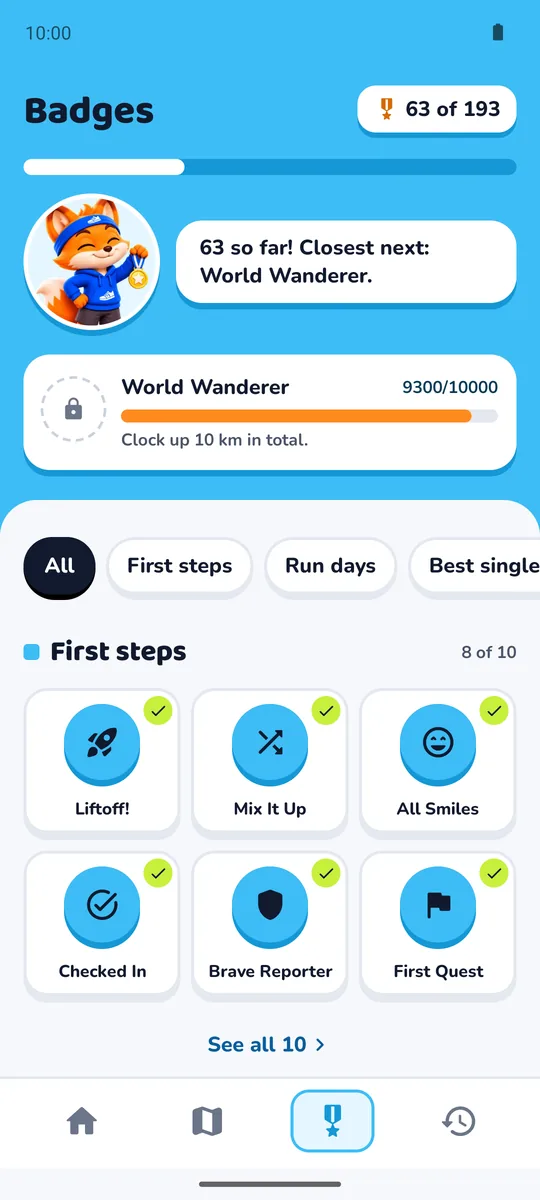
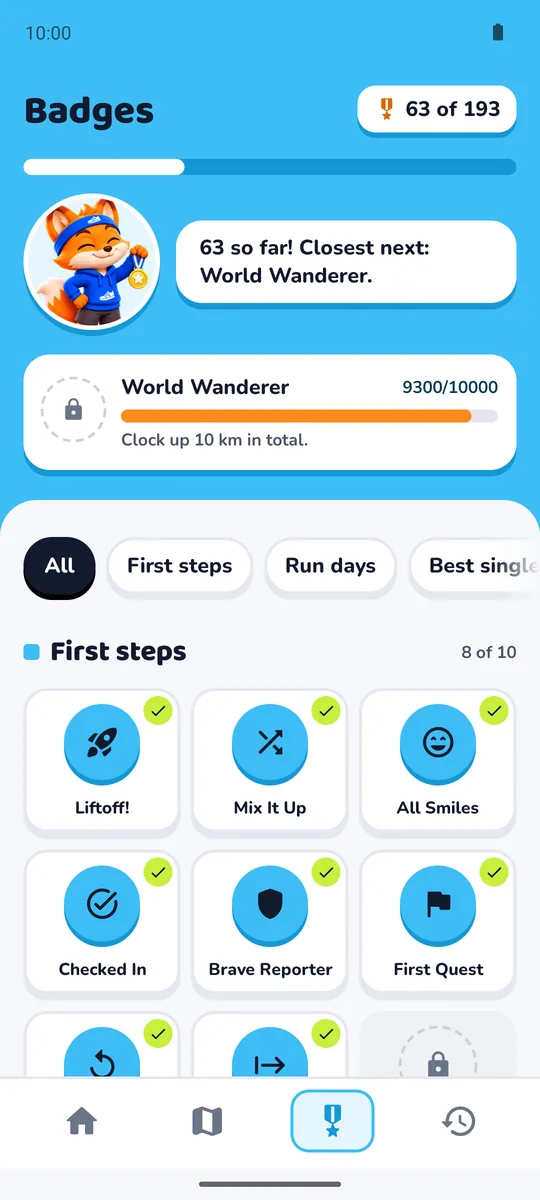
1.5: round medals, no jump on Easier and Harder, clearer Show more
The darker edge under chunky surfaces is now the face's own shape dropped
by the depth, so medals, Ruu's frame and chapter circles are round instead
of slightly oval. The mission card no longer jumps while the distance rolls.
Badge categories say how many more they hold. The filter chips fade at the
edge instead of being cut. A test checks all 193 badges are on the tab.

diff --git a/app/src/main/java/app/ruuun/ui/screens/BadgesScreen.kt b/app/src/main/java/app/ruuun/ui/screens/BadgesScreen.kt
@@ -37,6 +37,14 @@ import androidx.compose.runtime.setValue
 import androidx.compose.ui.Alignment
 import androidx.compose.ui.Modifier
 import androidx.compose.ui.draw.clip
+import androidx.compose.ui.draw.drawWithContent
+import androidx.compose.ui.geometry.Offset
+import androidx.compose.ui.geometry.Size
+import androidx.compose.ui.graphics.BlendMode
+import androidx.compose.ui.graphics.Brush
+import androidx.compose.ui.graphics.Color
+import androidx.compose.ui.graphics.CompositingStrategy
+import androidx.compose.ui.graphics.graphicsLayer
 import androidx.compose.ui.semantics.Role
 import androidx.compose.ui.semantics.heading
 import androidx.compose.ui.semantics.semantics
@@ -148,9 +156,14 @@ fun BadgesScreen(state: AppState) {
         }
 
         item {
+            val chipScroll = rememberScrollState()
             Row(
                 Modifier
-                    .horizontalScroll(rememberScrollState())
+                    .fadedEdges(
+                        start = chipScroll.value > 0,
+                        end = chipScroll.value < chipScroll.maxValue,
+                    )
+                    .horizontalScroll(chipScroll)
                     .padding(horizontal = Gutter),
                 horizontalArrangement = Arrangement.spacedBy(8.dp),
             ) {
@@ -223,7 +236,7 @@ fun BadgesScreen(state: AppState) {
             if (badges.size > PREVIEW && filter != category) {
                 item(key = "more-$category") {
                     SeeAllLink(
-                        text = if (showAll) "Show fewer" else "See all ${badges.size}",
+                        text = if (showAll) "Show fewer" else "Show ${badges.size - PREVIEW} more",
                         onClick = {
                             opened = if (showAll) opened - category.name else opened + category.name
                         },
@@ -240,6 +253,36 @@ fun BadgesScreen(state: AppState) {
         BadgeDetailSheet(badge = sheetBadge, stats = stats, onDismiss = { selected = null })
     }
 }
+
+/**
+ * Fades a sideways-scrolling row out at whichever edge has more to see, so a chip cut by
+ * the screen edge reads as "scroll for more" rather than a broken chip.
+ */
+private fun Modifier.fadedEdges(start: Boolean, end: Boolean): Modifier =
+    graphicsLayer { compositingStrategy = CompositingStrategy.Offscreen }
+        .drawWithContent {
+            drawContent()
+            val fade = 36.dp.toPx()
+            if (start) {
+                drawRect(
+                    brush = Brush.horizontalGradient(listOf(Color.Transparent, Color.Black), startX = 0f, endX = fade),
+                    size = Size(fade, size.height),
+                    blendMode = BlendMode.DstIn,
+                )
+            }
+            if (end) {
+                drawRect(
+                    brush = Brush.horizontalGradient(
+                        listOf(Color.Black, Color.Transparent),
+                        startX = size.width - fade,
+                        endX = size.width,
+                    ),
+                    topLeft = Offset(size.width - fade, 0f),
+                    size = Size(fade, size.height),
+                    blendMode = BlendMode.DstIn,
+                )
+            }
+        }
 
 /** The badge closest to being earned, on the header, with its progress. */
 @Composable

diff --git a/app/src/main/java/app/ruuun/ui/screens/HomeScreen.kt b/app/src/main/java/app/ruuun/ui/screens/HomeScreen.kt
@@ -3,6 +3,8 @@ package app.ruuun.ui.screens
 import androidx.compose.animation.AnimatedContent
 import androidx.compose.animation.EnterTransition
 import androidx.compose.animation.ExitTransition
+import androidx.compose.animation.SizeTransform
+import androidx.compose.animation.core.tween
 import androidx.compose.animation.core.Animatable
 import androidx.compose.animation.fadeIn
 import androidx.compose.animation.fadeOut
@@ -340,7 +342,9 @@ private fun MissionSpeech(targetM: Int, welcomeBack: Boolean) {
             Text("Welcome back!", style = RuuunText.SpeechWords, color = Navy)
             Spacer(Modifier.height(4.dp))
         }
-        Row {
+        // Bottom-aligned with a fixed nudge, not by baseline: while the number rolls there
+        // are two of them, and a baseline would make the card jump.
+        Row(verticalAlignment = Alignment.Bottom) {
             Text(
                 "Let's do ",
                 style = RuuunText.SpeechWords,
@@ -349,7 +353,7 @@ private fun MissionSpeech(targetM: Int, welcomeBack: Boolean) {
                 // The distance keeps its width; the words give way first.
                 modifier = Modifier
                     .weight(1f, fill = false)
-                    .alignByBaseline()
+                    .padding(bottom = 3.dp)
                     .cropFontSpace(),
             )
             AnimatedContent(
@@ -361,10 +365,9 @@ private fun MissionSpeech(targetM: Int, welcomeBack: Boolean) {
                             (slideInVertically { it } + fadeIn()) togetherWith (slideOutVertically { -it } + fadeOut())
                         else ->
                             (slideInVertically { -it } + fadeIn()) togetherWith (slideOutVertically { it } + fadeOut())
-                    }
+                    }.using(SizeTransform(clip = true) { _, _ -> tween(220) })
                 },
                 label = "mission",
-                modifier = Modifier.alignByBaseline(),
             ) { metres ->
                 Text(
                     Formatters.distance(metres),

diff --git a/app/src/main/java/app/ruuun/ui/components/Cards.kt b/app/src/main/java/app/ruuun/ui/components/Cards.kt
@@ -343,9 +343,9 @@ fun Medal(badge: BadgeDef, earned: Boolean, modifier: Modifier = Modifier, size:
             shade = badge.category.earnedShade(),
             border = null,
             shape = androidx.compose.foundation.shape.CircleShape,
-            depth = 5.dp,
+            depth = 4.dp,
             // The edge adds to the height, so the face itself stays a circle.
-            modifier = modifier.size(width = size, height = size + 5.dp),
+            modifier = modifier.size(width = size, height = size + 4.dp),
             contentAlignment = Alignment.Center,
         ) {
             Icon(
@@ -358,8 +358,8 @@ fun Medal(badge: BadgeDef, earned: Boolean, modifier: Modifier = Modifier, size:
     } else {
         Box(
             modifier
-                .size(width = size, height = size + 5.dp)
-                .padding(bottom = 5.dp)
+                .size(width = size, height = size + 4.dp)
+                .padding(bottom = 4.dp)
                 .drawBehind {
                     drawCircle(
                         color = app.ruuun.ui.theme.InputBorder,

diff --git a/app/src/main/java/app/ruuun/ui/components/Chunky.kt b/app/src/main/java/app/ruuun/ui/components/Chunky.kt
@@ -78,11 +78,12 @@ fun Chunky(
     }
     // Min constraints pass through, so a fixed or full-width size reaches the face.
     Box(modifier.then(clickModifier), propagateMinConstraints = true) {
-        // The edge: the whole footprint in the shade colour, under the face.
+        // The edge: the face's own shape in the shade colour, dropped by the full depth, so
+        // only a crescent shows below. A circle stays a circle with a circle under it.
         Box(
             Modifier
                 .matchParentSize()
-                .padding(top = (depth - shown).coerceAtLeast(0.dp))
+                .padding(top = depth)
                 .clip(shape)
                 .background(shade),
         )

diff --git a/app/src/test/java/app/ruuun/BadgeTabCountTest.kt b/app/src/test/java/app/ruuun/BadgeTabCountTest.kt
@@ -1,0 +1,17 @@
+package app.ruuun
+
+import app.ruuun.content.Achievements
+import app.ruuun.content.BadgeCategory
+import org.junit.Assert.assertEquals
+import org.junit.Test
+
+/** The Badges tab lists every badge: each category on screen adds up to all 193. */
+class BadgeTabCountTest {
+    @Test
+    fun `every badge is in a category shown on the Badges tab`() {
+        val shown = BadgeCategory.entries.filter { Achievements.BY_CATEGORY[it]?.isNotEmpty() == true }
+        val perCategory = shown.associateWith { Achievements.BY_CATEGORY[it].orEmpty().size }
+        assertEquals(Achievements.ALL.size, perCategory.values.sum())
+        assertEquals(193, Achievements.ALL.size)
+    }
+}

diff --git a/docs/UI_DESIGN_SPEC.md b/docs/UI_DESIGN_SPEC.md
@@ -20,7 +20,7 @@
 
 **Contrast rules (a change from the design handoff, on purpose).** The handoff put white text on Sky and on Orange. Those measure 2.1:1 and 2.4:1, below the 3:1 minimum even for large text, so the app uses Navy (or SkyDeep on Sky) instead. Orange text on white uses OrangeShade, large sizes only. Medal icons are Navy, except Secret (lime on black). Inactive nav icons are `#7D8799` (3.6:1).
 
-**`Chunky`** (`ui/components/Chunky.kt`) is the base of every card, chip, tile and button: a solid face over a darker shade that shows as a thick bottom edge (no blur shadows anywhere). Pressing moves the face down to a 2 dp edge in 80 ms; the outer size never changes. White faces get a 2 dp `Border` outline and a `Border` edge; coloured faces get their shade (`shadeOf`). Depths: buttons 6, cards 5, chips 4, small tiles 3 to 4.
+**`Chunky`** (`ui/components/Chunky.kt`) is the base of every card, chip, tile and button: a solid face over a darker shade that shows as a thick bottom edge (no blur shadows anywhere). Pressing moves the face down to a 2 dp edge in 80 ms; the outer size never changes. White faces get a 2 dp `Border` outline and a `Border` edge; coloured faces get their shade (`shadeOf`). Depths: buttons 6, cards 5, chips 4, medals and small tiles 3 to 4. The edge is the face's own shape dropped by the depth, so a circle shows a circle under it, not a taller oval. Sideways-scrolling chip rows fade at the edge that has more.
 
 **Screen structure.** Tabs and sub-screens start with a **blue header** (`BlueHeader`, Sky, reaching up behind the status bar) holding the title and chips, then a **rounded sheet** (`SheetTop`, Ground, 28 dp corners) for the content. A Sky strip stays behind the status bar while content scrolls. Things sitting on blue (chips, the speech card, the fox circle, the closest-badge card) are white with a `SkyShade` edge. Sub-screens (Log a run, Settings, a run, Setup) use `SubScreenHeader`: a white back or close chip and the title on the same blue.
 
@@ -33,7 +33,7 @@
 **Screens**
 - **Home:** the blue header fills whatever the sheet leaves (never less than its own content; short phones scroll). Level chip, XP chip and settings chip; a white XP bar on a SkyShade track; Ruu's speech card "Let's do 1.3 km" (distance in OrangeShade, rolls on Easier and Harder); Ruu in a 180 dp round frame on the current world's scene, dressed for it, breathing gently; a navy pill in lime ("2 stops or fewer · from 3 · breaks are fine", or what the rule is before stops are counted, or the welcome-back line). Sheet: Monday to Sunday circles (lime with a check on days run, dashed orange ring on today, grey otherwise, with the weekly goal on the right); Easier (south arrow) · LOG A RUN · Harder (north arrow); a card with the closest badge and the current chapter as progress lines. The run, distance and badge counters moved off Home (they are on History and Badges).
 - **Journey:** "Journey" and an "N of 24" chip; the current chapter card on blue (world scene, Ruu, lime world pill, 14 dp orange bar). Sheet: the week (goal and side quest as two tiles), stops as a navy card with one block per stop for the first counted run and the latest (12 shown, then "+N"; zero reads "Non-stop!"), the whole journey, week by week. The current world is a coloured banner then its three chapters as a zig-zag path (offsets 24 / 120 / 52 dp): finished chapters show their picture in a circle with a lime check and open it when tapped, the current one is an orange 76 dp circle with the run count, "You are here" and a slow pulse (none when animations are off), locked ones are grey with a lock and the runs needed. Finished worlds fold to a card that opens to the same path; worlds ahead show their chapters and run range; a season not yet open is drawn dashed.
-- **Badges:** "Badges" and an "N of 193" chip, a white progress bar, Ruu holding a medal with a speech card naming the closest badge, and that badge as a card with its bar and hint. Filter chips, then each category with a colour square, six badges and "See all N". Earned: a medal in the category colour with its darker edge and a lime check. Locked: grey tile, dashed medal with a lock (a question mark for secrets), a 7 dp orange bar and "a/b".
+- **Badges:** "Badges" and an "N of 193" chip, a white progress bar, Ruu holding a medal with a speech card naming the closest badge, and that badge as a card with its bar and hint. Filter chips, then each category with a colour square, six badges and "Show N more". Earned: a medal in the category colour with its darker edge and a lime check. Locked: grey tile, dashed medal with a lock (a question mark for secrets), a 7 dp orange bar and "a/b".
 - **History:** "History" and four stat tiles on blue (all-time distance on orange, the rest white). Each run: a date block, the distance, a feel pill with its face, a dot for each stop (12, then "+N") and the note.
 - **Not in the handoff, extrapolated in the same style:** Log a run (blue header with a close chip, Ruu taking notes, chunky effort buttons and stops stepper, LOG A RUN style save button), Run saved (the celebration on blue with Ruu cheering, then the sheet), Settings and a run's detail (blue header with a back chip, chunky cards), Setup (logo on blue).
 

diff --git a/README.md b/README.md
@@ -169,7 +169,7 @@ on a connected device or emulator: onboarding, saving, same-date runs, editing, 
 latest run moves the mission), tag and note persistence, atomic import, delete-everything, the
 mission controls against the cap, the database migrations, and 150 runs.
 
-`./gradlew :app:testDebugUnitTest` runs 172 JVM tests with no emulator required:
+`./gradlew :app:testDebugUnitTest` runs 173 JVM tests with no emulator required:
 
 | File | Covers |
 |---|---|
@@ -185,6 +185,7 @@ mission controls against the cap, the database migrations, and 150 runs.
 | `WorkedScenariosTest` | all ten Appendix D scenarios plus the UI spec's sample child |
 | `JourneyMapTest` | the four-world map: ordering, exactly one chapter current, world completion, gentle pacing |
 | `InvariantSweepTest` | 1,000 randomised journeys, every rule re-checked after each run |
+| `BadgeTabCountTest` | every badge sits in a category the Badges tab shows, 193 in all |
 | `HomeWeekTest` | the Monday to Sunday row on Home and the pill under Ruu |
 | `MascotTest` | which Ruu shows after a save (a cheer, Hard, ordinary, warm-ups and extra runs), one picture per chapter |
 | `EdgeCaseTest` | backups missing optional keys or carrying unknown ones, runs logged before onboarding, weekly-goal changes, a future onboarding date, a 1 m outing, a decade of logs |
@@ -260,11 +261,11 @@ decrease.
   world, with "Let's do 1.3 km" in a speech card, a Monday to Sunday row, square Easier and Harder
   buttons beside LOG A RUN, and the closest badge and chapter as progress lines. Journey shows the
   current world as a zig-zag path of chapters with "You are here", and stops as blocks. Badges are
-  coloured medals, six per category with "See all". History has big stat tiles and a dot per stop.
+  coloured medals, six per category with "Show N more". History has big stat tiles and a dot per stop.
   The handoff's white text on blue and orange was too faint (2.1:1 and 2.4:1), so text there is
   navy. A new animated splash: Ruu bobbing in two halo rings on navy, the ruuun! name and three
   hopping dots. The bottom bar is icons only. Nothing about runs, missions, badges or the story
-  changed. 172 unit tests and 31 device tests.
+  changed. 173 unit tests and 31 device tests.
 
 - **1.4.1**: more Ruu. On Home, Ruu is much bigger (176 dp, from 108) and stands on the mission card
   with its head above the top edge, breathing gently (still when animations are off). Run saved
